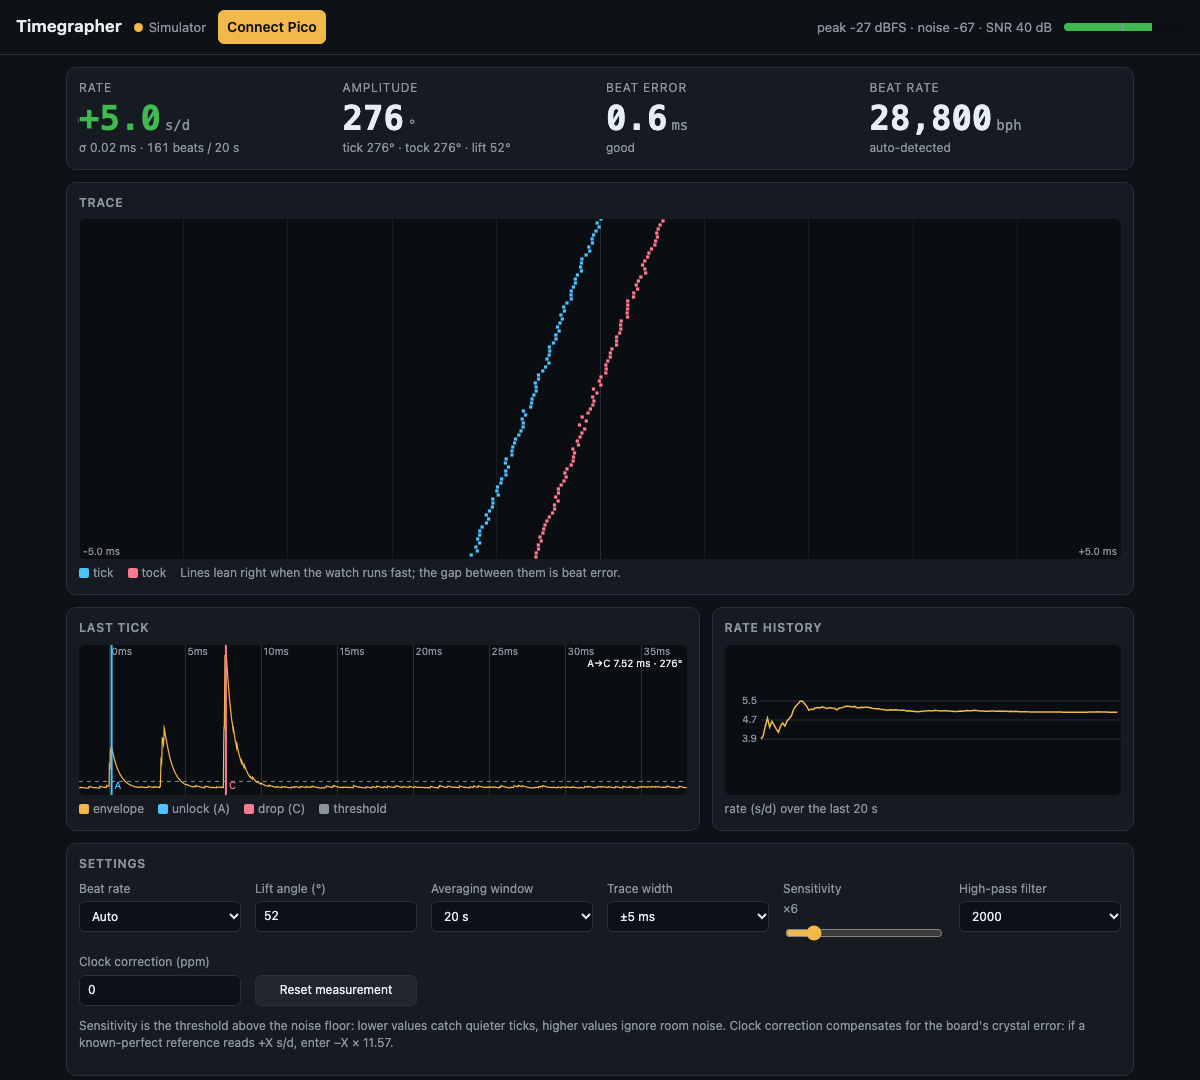
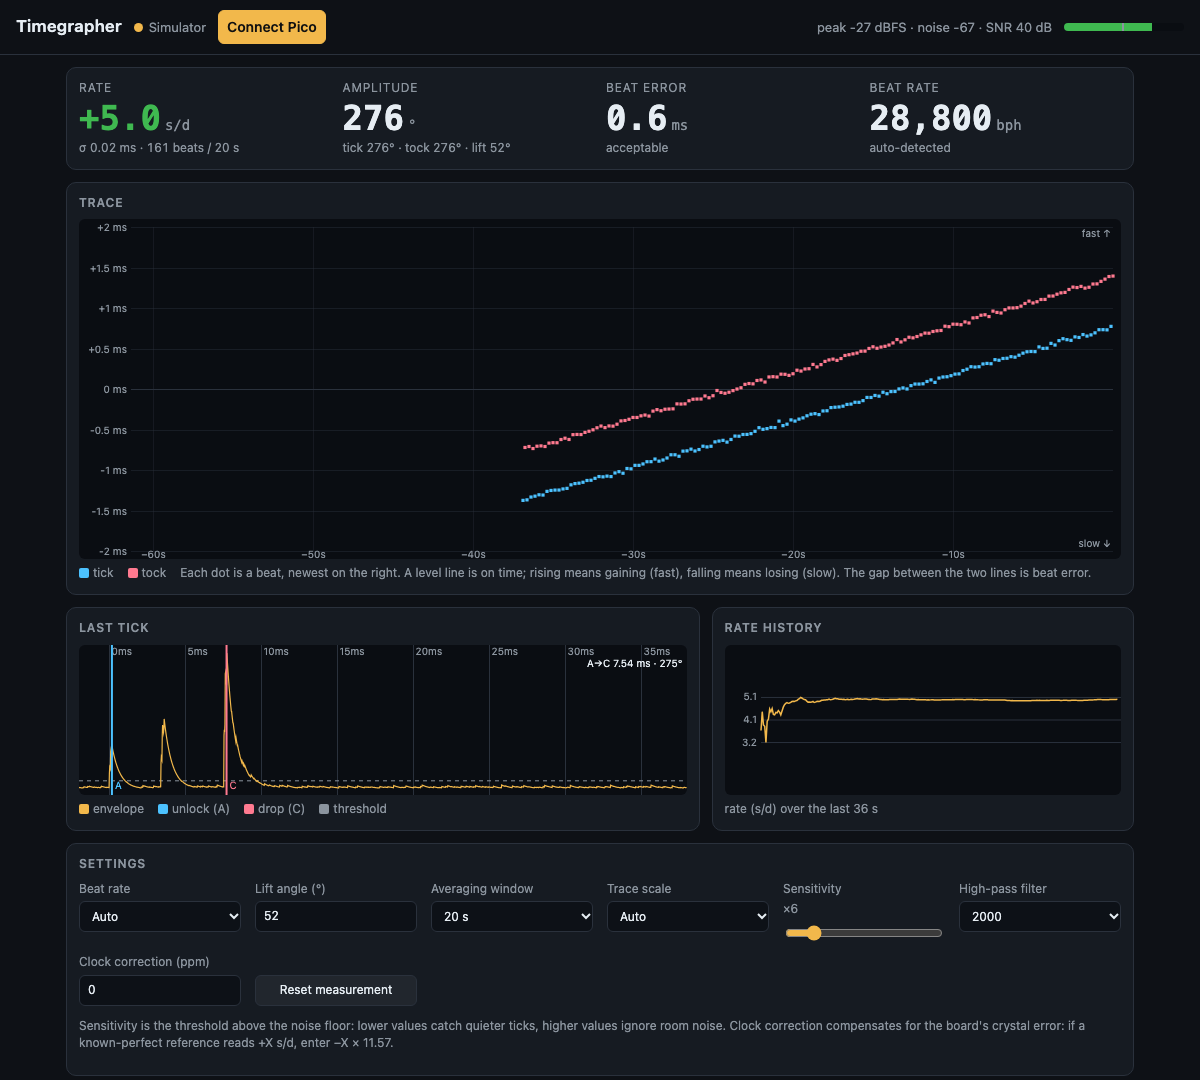
Redraw the trace like a bench timegrapher
Time now runs left to right (newest beat on the right) and height is how
early or late each beat came: a rising line means gaining, falling means
losing, level is on time. The view is centred on the visible dots and
auto-scaled, with an optional fixed scale that wraps like paper. Docs and
screenshot updated.

diff --git a/web/index.html b/web/index.html
@@ -82,7 +82,7 @@
     <div class="legend">
       <span><span class="sw" style="background:var(--even)"></span>tick</span>
       <span><span class="sw" style="background:var(--odd)"></span>tock</span>
-      <span>Lines lean right when the watch runs fast; the gap between them is beat error.</span>
+      <span>Each dot is a beat, newest on the right. A level line is on time; rising means gaining (fast), falling means losing (slow). The gap between the two lines is beat error.</span>
     </div>
   </section>
 
@@ -116,8 +116,8 @@
       <label class="ctl">Averaging window
         <select id="win"><option value="10">10 s</option><option value="20" selected>20 s</option><option value="60">60 s</option><option value="120">2 min</option></select>
       </label>
-      <label class="ctl">Trace width
-        <select id="zoom"><option value="2">±1 ms</option><option value="5">±2.5 ms</option><option value="10" selected>±5 ms</option><option value="20">±10 ms</option><option value="50">±25 ms</option></select>
+      <label class="ctl">Trace scale
+        <select id="zoom"><option value="auto" selected>Auto</option><option value="2">±1 ms</option><option value="5">±2.5 ms</option><option value="10">±5 ms</option><option value="20">±10 ms</option><option value="50">±25 ms</option></select>
       </label>
       <label class="ctl">Sensitivity <span id="sensVal"></span>
         <input id="sens" type="range" min="2" max="30" step="0.5" value="6">
@@ -188,6 +188,7 @@
   // ---------------------------------------------------------------- settings
   const settingIds = ['bphSel', 'lift', 'win', 'zoom', 'sens', 'hpf', 'ppm'];
   const saved = store.get('settings', {});
+  if (!saved.traceV2) delete saved.zoom;   // trace redesign: default to Auto scale
   for (const id of settingIds) if (saved[id] != null) $(id).value = saved[id];
   const num = id => parseFloat($(id).value);
 
@@ -204,6 +205,7 @@
   function onSettings() {
     const s = {};
     for (const id of settingIds) s[id] = $(id).value;
+    s.traceV2 = true;
     store.set('settings', s);
     $('sensVal').textContent = '×' + num('sens');
     ana.setOptions({ liftAngle: num('lift'), bph: num('bphSel'), ppm: num('ppm') || 0, windowSec: num('win') });
@@ -388,23 +390,18 @@
     }
   }
 
+  // Timegrapher trace, drawn like a bench timegrapher or Watch Accuracy Meter:
+  // each dot is one beat, newest on the right; height is how early (up = gaining)
+  // or late (down = losing) the beat came against a perfect clock. A level line
+  // is on time; the gap between tick and tock lines is beat error. The view is
+  // centred on the visible dots so they stay in the middle.
   function drawTrace() {
     const { g, w, h } = fit($('trace'));
     g.clearRect(0, 0, w, h);
-    const span = num('zoom') / 1000;   // seconds across the full width
-    const rowPx = 2;
-    const rows = Math.floor(h / rowPx);
-    // grid
-    g.strokeStyle = C.line; g.fillStyle = C.muted; g.font = '10px system-ui'; g.lineWidth = 1;
-    for (let i = 0; i <= 10; i++) {
-      const x = Math.round(i / 10 * w) + 0.5;
-      g.globalAlpha = i === 5 ? 0.9 : 0.4;
-      g.beginPath(); g.moveTo(x, 0); g.lineTo(x, h); g.stroke();
-    }
-    g.globalAlpha = 1;
-    g.fillText(`${(-span / 2 * 1000).toFixed(1)} ms`, 4, h - 4);
-    g.textAlign = 'right'; g.fillText(`+${(span / 2 * 1000).toFixed(1)} ms`, w - 4, h - 4); g.textAlign = 'left';
     const tr = ana.trace;
+    const left = 52, right = 8, pxPerBeat = 2;
+    const beats = Math.floor((w - left - right) / pxPerBeat);
+    g.font = '10px system-ui';
     if (!tr.length) {
       g.fillStyle = C.muted; g.textAlign = 'center'; g.font = '13px system-ui';
       g.fillText(ana.bph ? 'Waiting for steady ticks…' : 'Place the watch on the microphone', w / 2, h / 2);
@@ -412,14 +409,52 @@
       return;
     }
     const newest = tr[tr.length - 1].row;
+    const vis = [];
+    for (let i = tr.length - 1; i >= 0 && newest - tr[i].row <= beats; i--) vis.push(tr[i]);
+    const dev = p => -p.x * 1000;   // ms; positive = beat came early = gaining
+    const center = TG.median(vis.map(dev));
+    const zoom = $('zoom').value;
+    let half;
+    if (zoom === 'auto') {
+      let m = 0;
+      for (const p of vis) m = Math.max(m, Math.abs(dev(p) - center));
+      half = [0.5, 1, 2, 2.5, 5, 10, 20, 25, 50, 100].find(v => v >= m * 1.15) || 100;
+    } else half = parseFloat(zoom) / 2;
+    const plotH = h - 16, midY = 8 + plotH / 2;
+    const Y = d => midY - d / half * (plotH / 2);
+    const X = row => w - right - (newest - row) * pxPerBeat;
+
+    // horizontal grid in ms
+    const step = half <= 1 ? 0.25 : half <= 2.5 ? 0.5 : half <= 5 ? 1 : half <= 10 ? 2 : half <= 25 ? 5 : 10;
+    g.textAlign = 'right';
+    for (let v = -half; v <= half + 1e-9; v += step) {
+      const y = Math.round(Y(v)) + 0.5;
+      g.strokeStyle = C.line; g.globalAlpha = Math.abs(v) < 1e-9 ? 1 : 0.45;
+      g.beginPath(); g.moveTo(left, y); g.lineTo(w - right, y); g.stroke();
+      g.globalAlpha = 1; g.fillStyle = C.muted;
+      g.fillText(Math.abs(v) < 1e-9 ? '0 ms' : (v > 0 ? '+' : '') + parseFloat(v.toFixed(2)) + ' ms', left - 4, y + 3);
+    }
+    // vertical grid every 10 s
+    const beatsPer10s = ana.bph / 360;
+    g.textAlign = 'center';
+    for (let k = 1; k * beatsPer10s <= beats; k++) {
+      const x = Math.round(X(newest - k * beatsPer10s)) + 0.5;
+      g.strokeStyle = C.line; g.globalAlpha = 0.35;
+      g.beginPath(); g.moveTo(x, 8); g.lineTo(x, h - 8); g.stroke();
+      g.globalAlpha = 1; g.fillStyle = C.muted;
+      g.fillText(`−${k * 10}s`, x, h - 1);
+    }
+    g.textAlign = 'right'; g.fillStyle = C.muted;
+    g.fillText('fast ↑', w - right - 2, 18);
+    g.fillText('slow ↓', w - right - 2, h - 12);
+    g.textAlign = 'left';
+
     const r = 1.6;
-    for (let i = tr.length - 1; i >= 0; i--) {
-      const p = tr[i], age = newest - p.row;
-      if (age > rows) break;
-      let x = ((p.x + span / 2) % span + span) % span;   // wrap into [0, span)
-      const px = x / span * w, py = h - 2 - age * rowPx;
+    for (const p of vis) {
+      let d = dev(p) - center;
+      if (zoom !== 'auto') d = ((d + half) % (2 * half) + 2 * half) % (2 * half) - half;   // wrap like paper
       g.fillStyle = p.p ? C.odd : C.even;
-      g.fillRect(px - r, py - r, r * 2, r * 2);
+      g.fillRect(X(p.row) - r, Y(d) - r, r * 2, r * 2);
     }
   }
 

diff --git a/firmware/esp32_timegrapher/index_html.h b/firmware/esp32_timegrapher/index_html.h
@@ -84,7 +84,7 @@ static const char INDEX_HTML[] = R"TGHTML(<!doctype html>
     <div class="legend">
       <span><span class="sw" style="background:var(--even)"></span>tick</span>
       <span><span class="sw" style="background:var(--odd)"></span>tock</span>
-      <span>Lines lean right when the watch runs fast; the gap between them is beat error.</span>
+      <span>Each dot is a beat, newest on the right. A level line is on time; rising means gaining (fast), falling means losing (slow). The gap between the two lines is beat error.</span>
     </div>
   </section>
 
@@ -118,8 +118,8 @@ static const char INDEX_HTML[] = R"TGHTML(<!doctype html>
       <label class="ctl">Averaging window
         <select id="win"><option value="10">10 s</option><option value="20" selected>20 s</option><option value="60">60 s</option><option value="120">2 min</option></select>
       </label>
-      <label class="ctl">Trace width
-        <select id="zoom"><option value="2">±1 ms</option><option value="5">±2.5 ms</option><option value="10" selected>±5 ms</option><option value="20">±10 ms</option><option value="50">±25 ms</option></select>
+      <label class="ctl">Trace scale
+        <select id="zoom"><option value="auto" selected>Auto</option><option value="2">±1 ms</option><option value="5">±2.5 ms</option><option value="10">±5 ms</option><option value="20">±10 ms</option><option value="50">±25 ms</option></select>
       </label>
       <label class="ctl">Sensitivity <span id="sensVal"></span>
         <input id="sens" type="range" min="2" max="30" step="0.5" value="6">
@@ -626,6 +626,7 @@ static const char INDEX_HTML[] = R"TGHTML(<!doctype html>
   // ---------------------------------------------------------------- settings
   const settingIds = ['bphSel', 'lift', 'win', 'zoom', 'sens', 'hpf', 'ppm'];
   const saved = store.get('settings', {});
+  if (!saved.traceV2) delete saved.zoom;   // trace redesign: default to Auto scale
   for (const id of settingIds) if (saved[id] != null) $(id).value = saved[id];
   const num = id => parseFloat($(id).value);
 
@@ -642,6 +643,7 @@ static const char INDEX_HTML[] = R"TGHTML(<!doctype html>
   function onSettings() {
     const s = {};
     for (const id of settingIds) s[id] = $(id).value;
+    s.traceV2 = true;
     store.set('settings', s);
     $('sensVal').textContent = '×' + num('sens');
     ana.setOptions({ liftAngle: num('lift'), bph: num('bphSel'), ppm: num('ppm') || 0, windowSec: num('win') });
@@ -826,23 +828,18 @@ static const char INDEX_HTML[] = R"TGHTML(<!doctype html>
     }
   }
 
+  // Timegrapher trace, drawn like a bench timegrapher or Watch Accuracy Meter:
+  // each dot is one beat, newest on the right; height is how early (up = gaining)
+  // or late (down = losing) the beat came against a perfect clock. A level line
+  // is on time; the gap between tick and tock lines is beat error. The view is
+  // centred on the visible dots so they stay in the middle.
   function drawTrace() {
     const { g, w, h } = fit($('trace'));
     g.clearRect(0, 0, w, h);
-    const span = num('zoom') / 1000;   // seconds across the full width
-    const rowPx = 2;
-    const rows = Math.floor(h / rowPx);
-    // grid
-    g.strokeStyle = C.line; g.fillStyle = C.muted; g.font = '10px system-ui'; g.lineWidth = 1;
-    for (let i = 0; i <= 10; i++) {
-      const x = Math.round(i / 10 * w) + 0.5;
-      g.globalAlpha = i === 5 ? 0.9 : 0.4;
-      g.beginPath(); g.moveTo(x, 0); g.lineTo(x, h); g.stroke();
-    }
-    g.globalAlpha = 1;
-    g.fillText(`${(-span / 2 * 1000).toFixed(1)} ms`, 4, h - 4);
-    g.textAlign = 'right'; g.fillText(`+${(span / 2 * 1000).toFixed(1)} ms`, w - 4, h - 4); g.textAlign = 'left';
     const tr = ana.trace;
+    const left = 52, right = 8, pxPerBeat = 2;
+    const beats = Math.floor((w - left - right) / pxPerBeat);
+    g.font = '10px system-ui';
     if (!tr.length) {
       g.fillStyle = C.muted; g.textAlign = 'center'; g.font = '13px system-ui';
       g.fillText(ana.bph ? 'Waiting for steady ticks…' : 'Place the watch on the microphone', w / 2, h / 2);
@@ -850,14 +847,52 @@ static const char INDEX_HTML[] = R"TGHTML(<!doctype html>
       return;
     }
     const newest = tr[tr.length - 1].row;
+    const vis = [];
+    for (let i = tr.length - 1; i >= 0 && newest - tr[i].row <= beats; i--) vis.push(tr[i]);
+    const dev = p => -p.x * 1000;   // ms; positive = beat came early = gaining
+    const center = TG.median(vis.map(dev));
+    const zoom = $('zoom').value;
+    let half;
+    if (zoom === 'auto') {
+      let m = 0;
+      for (const p of vis) m = Math.max(m, Math.abs(dev(p) - center));
+      half = [0.5, 1, 2, 2.5, 5, 10, 20, 25, 50, 100].find(v => v >= m * 1.15) || 100;
+    } else half = parseFloat(zoom) / 2;
+    const plotH = h - 16, midY = 8 + plotH / 2;
+    const Y = d => midY - d / half * (plotH / 2);
+    const X = row => w - right - (newest - row) * pxPerBeat;
+
+    // horizontal grid in ms
+    const step = half <= 1 ? 0.25 : half <= 2.5 ? 0.5 : half <= 5 ? 1 : half <= 10 ? 2 : half <= 25 ? 5 : 10;
+    g.textAlign = 'right';
+    for (let v = -half; v <= half + 1e-9; v += step) {
+      const y = Math.round(Y(v)) + 0.5;
+      g.strokeStyle = C.line; g.globalAlpha = Math.abs(v) < 1e-9 ? 1 : 0.45;
+      g.beginPath(); g.moveTo(left, y); g.lineTo(w - right, y); g.stroke();
+      g.globalAlpha = 1; g.fillStyle = C.muted;
+      g.fillText(Math.abs(v) < 1e-9 ? '0 ms' : (v > 0 ? '+' : '') + parseFloat(v.toFixed(2)) + ' ms', left - 4, y + 3);
+    }
+    // vertical grid every 10 s
+    const beatsPer10s = ana.bph / 360;
+    g.textAlign = 'center';
+    for (let k = 1; k * beatsPer10s <= beats; k++) {
+      const x = Math.round(X(newest - k * beatsPer10s)) + 0.5;
+      g.strokeStyle = C.line; g.globalAlpha = 0.35;
+      g.beginPath(); g.moveTo(x, 8); g.lineTo(x, h - 8); g.stroke();
+      g.globalAlpha = 1; g.fillStyle = C.muted;
+      g.fillText(`−${k * 10}s`, x, h - 1);
+    }
+    g.textAlign = 'right'; g.fillStyle = C.muted;
+    g.fillText('fast ↑', w - right - 2, 18);
+    g.fillText('slow ↓', w - right - 2, h - 12);
+    g.textAlign = 'left';
+
     const r = 1.6;
-    for (let i = tr.length - 1; i >= 0; i--) {
-      const p = tr[i], age = newest - p.row;
-      if (age > rows) break;
-      let x = ((p.x + span / 2) % span + span) % span;   // wrap into [0, span)
-      const px = x / span * w, py = h - 2 - age * rowPx;
+    for (const p of vis) {
+      let d = dev(p) - center;
+      if (zoom !== 'auto') d = ((d + half) % (2 * half) + 2 * half) % (2 * half) - half;   // wrap like paper
       g.fillStyle = p.p ? C.odd : C.even;
-      g.fillRect(px - r, py - r, r * 2, r * 2);
+      g.fillRect(X(p.row) - r, Y(d) - r, r * 2, r * 2);
     }
   }
 

diff --git a/docs/usage.md b/docs/usage.md
@@ -32,21 +32,21 @@ The small text under each readout shows extra detail:
 
 ### Trace
 
-This is the classic timegrapher paper strip. Each dot is one beat, plotted
-against a perfect clock: tick in blue, tock in pink. New beats appear at the bottom.
+This is the timegrapher trace, drawn like a bench timegrapher. Each dot is one beat: tick in
+blue, tock in pink. The newest beat is on the right, and the last minute or so is shown. Height
+shows how early or late each beat came compared with a perfect clock, in milliseconds.
 
-- **Vertical lines** mean the rate is perfect.
-- **Lines leaning right** mean the watch is fast; **leaning left** means slow.
-  The steeper the lean, the bigger the error.
-- **Two separate lines** mean beat error; the gap between them is the beat
-  error. One merged line means zero beat error.
-- **Scattered dots** mean noise or a weak signal. Improve mic contact, or raise
-  sensitivity.
-- **Wavy lines** can show a real issue, such as a poised balance or escape
-  wheel problem, but check the mounting first.
+- **A level line** means the watch is on time.
+- **A rising line** means it's gaining (fast); **a falling line** means it's losing (slow).
+  The steeper the slope, the bigger the error.
+- **Two parallel lines** mean beat error; the vertical gap between them is the beat error.
+  One merged line means zero beat error.
+- **Scattered dots** mean noise or a weak signal. Improve the mic contact.
+- **Wavy lines** can show a real issue, such as a poised balance or escape wheel problem,
+  but check the mounting first.
 
-Lines that drift off one edge reappear on the other. Change **Trace width** to
-zoom.
+The view stays centred on the visible dots. **Trace scale** set to *Auto* zooms to fit
+them; a fixed scale wraps dots that run off the top or bottom, like timegrapher paper.
 
 ### Last tick
 
@@ -68,7 +68,7 @@ or for comparing before and after an adjustment.
 | **Beat rate** | *Auto* detects it; pick a value if detection is wrong. Auto can lock onto half the real rate when every second tick is missed. |
 | **Lift angle** | Property of the movement, used only for amplitude. Most modern movements are 50–53° (ETA 2824: 50°, many Seiko: 53°, Miyota 8215: 50°, older ETA/Unitas: 52°). Look up your calibre. A wrong lift angle scales amplitude proportionally. |
 | **Averaging window** | Seconds of beats used for rate and beat error. A longer window is steadier but slower to react. |
-| **Trace width** | Horizontal span of the trace. |
+| **Trace scale** | Vertical range of the trace. *Auto* fits the visible dots. |
 | **Sensitivity** | Trigger threshold as a multiple of the noise floor. Lower it for quiet watches; raise it if room noise causes false triggers. |
 | **High-pass filter** | Cuts low-frequency noise (hum, handling, desk thumps). The default is 2 kHz; try 1 kHz if ticks are dull or weak. |
 | **Clock correction** | Compensates for the Pico crystal's error; see below. |
